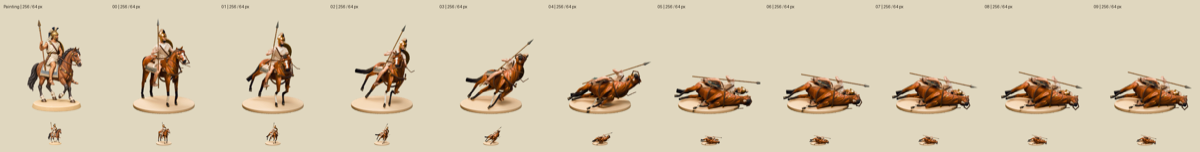
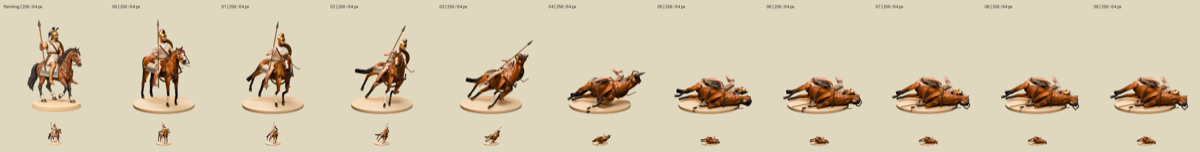
3D spearman interim review images

diff --git a/tools/art/anim3d/review/tank-log.md b/tools/art/anim3d/review/tank-log.md
@@ -43,3 +43,4 @@
 - Ref-based gates cannot represent these uncommitted files; static distinctness tool does not scan anim atlases. Candidate-specific pixel/geometry checks pass; quality and host GPU approval remain pending.
 - Read all six newly installed skills: blender-modeling, blender-materials, blender-lighting, blender-cameras, blender-animation, blender-rendering. Used them for final review; added --disable-autoexec and assigned-camera validation. Reference-look-calibration is not installed, so retained measured bbox/quantile/crossfade review.
 - Skill-informed follow-ups recorded: proper dielectric paint versus exposed-metal masks, more refined cast joins/wheel recesses, closer gun/camera registration, and linear mechanical curves for future subframe use. Did not claim unrendered material presets as tested or replace the user-requested fixed-view painted finish with generic glTF/cinematic presets.
+- Rendering skill production guidance applied to the documented host command: explicit Metal Cycles, 256 samples with denoising. CPU delivery remains honestly labelled 12-sample preview frames; GPU output has not been claimed as verified.

diff --git a/tools/art/anim3d/review/field-cannon-log.md b/tools/art/anim3d/review/field-cannon-log.md
@@ -56,3 +56,6 @@
 - Posted field-cannon-e-attack-strip.png; actual CYCLES render, visual review pending.
 - Posted field-cannon-e-hit-strip.png; actual CYCLES render, visual review pending.
 - Posted field-cannon-e-death-strip.png; actual CYCLES render, visual review pending.
+- FINAL: 40-frame 2560x1280 atlas, 193396 bytes, WebP quality 40, 32 alpha levels. Contract/bounds/motion/held death PASS; 53-bone MPFB/rolling/base/ground audit PASS; terminal matrix delta 0; Python and shell syntax and git diff --check PASS.
+- FINAL ART: recognizable at 64 px, below painting richness at 256 px. Upright pose, simplified face/cloth and weak aged wear remain; compression softens detail and cream base is still peach. GPU host render and art approval pending. All stage sheets, five animated previews and rest crossfade exist.
+- GIT: origin/master advanced to b93d4dd; merge denied ORIG_HEAD.lock, staging denied index.lock. No commit, push, PR or master merge. Runner must merge and commit.
